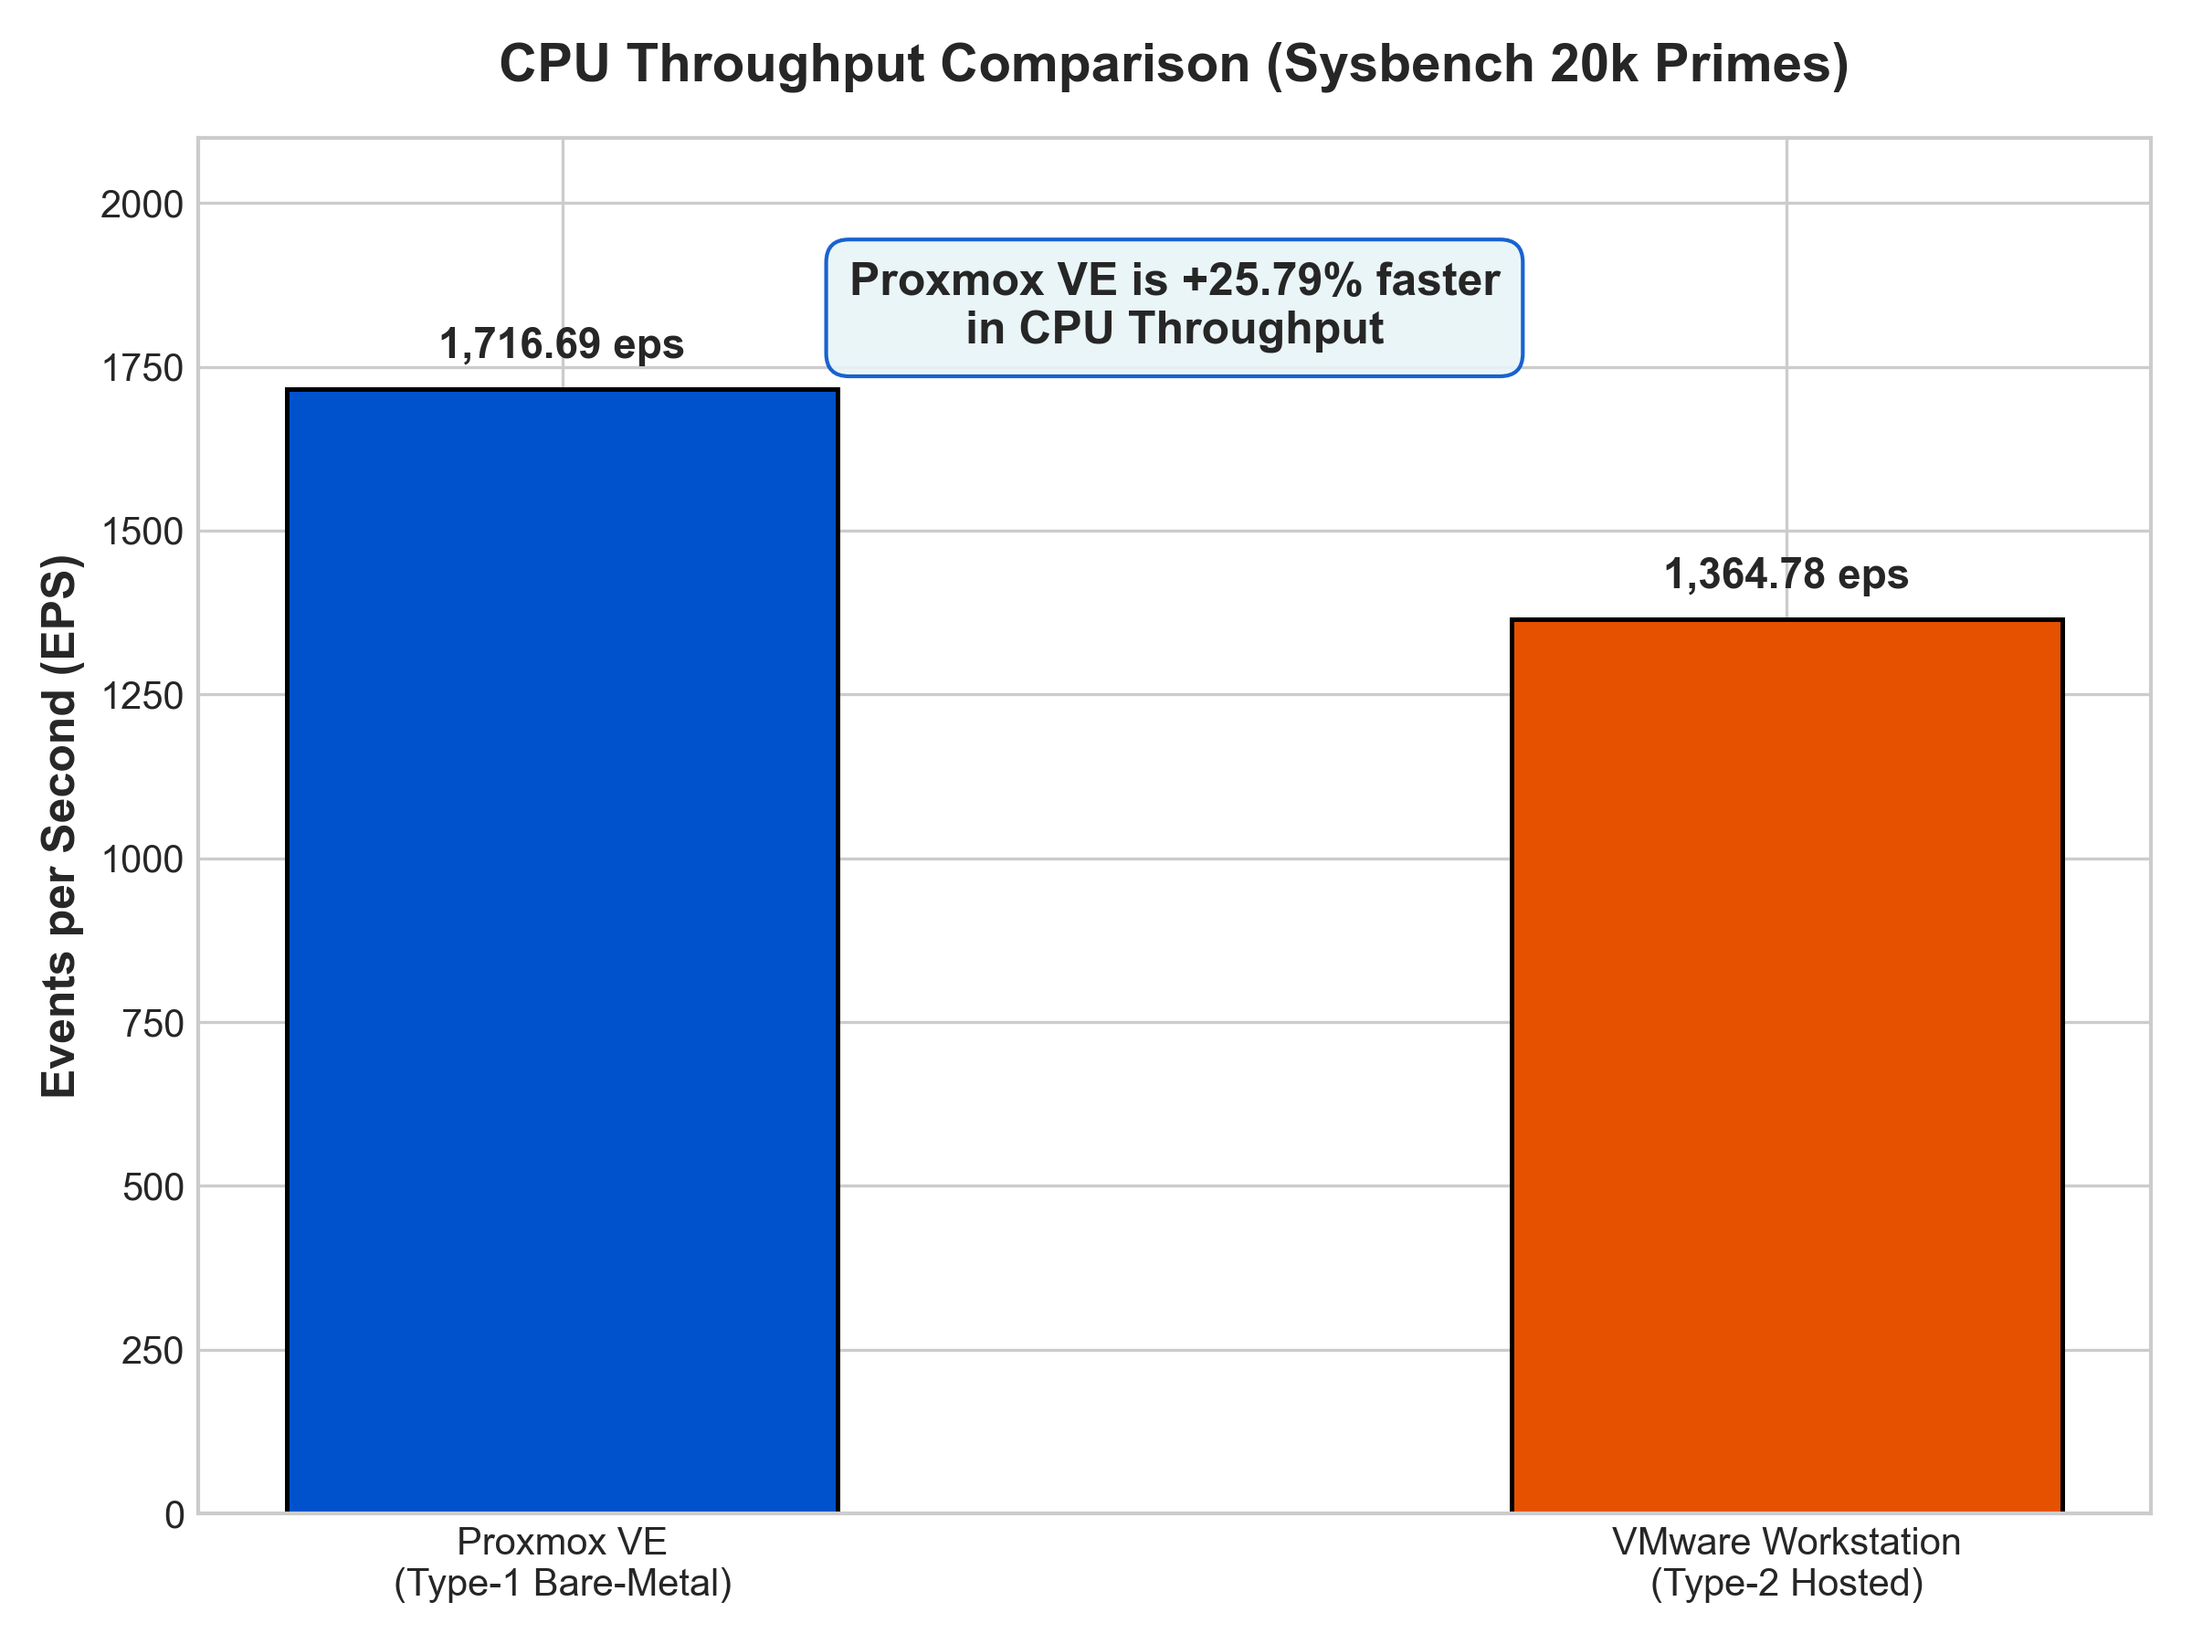
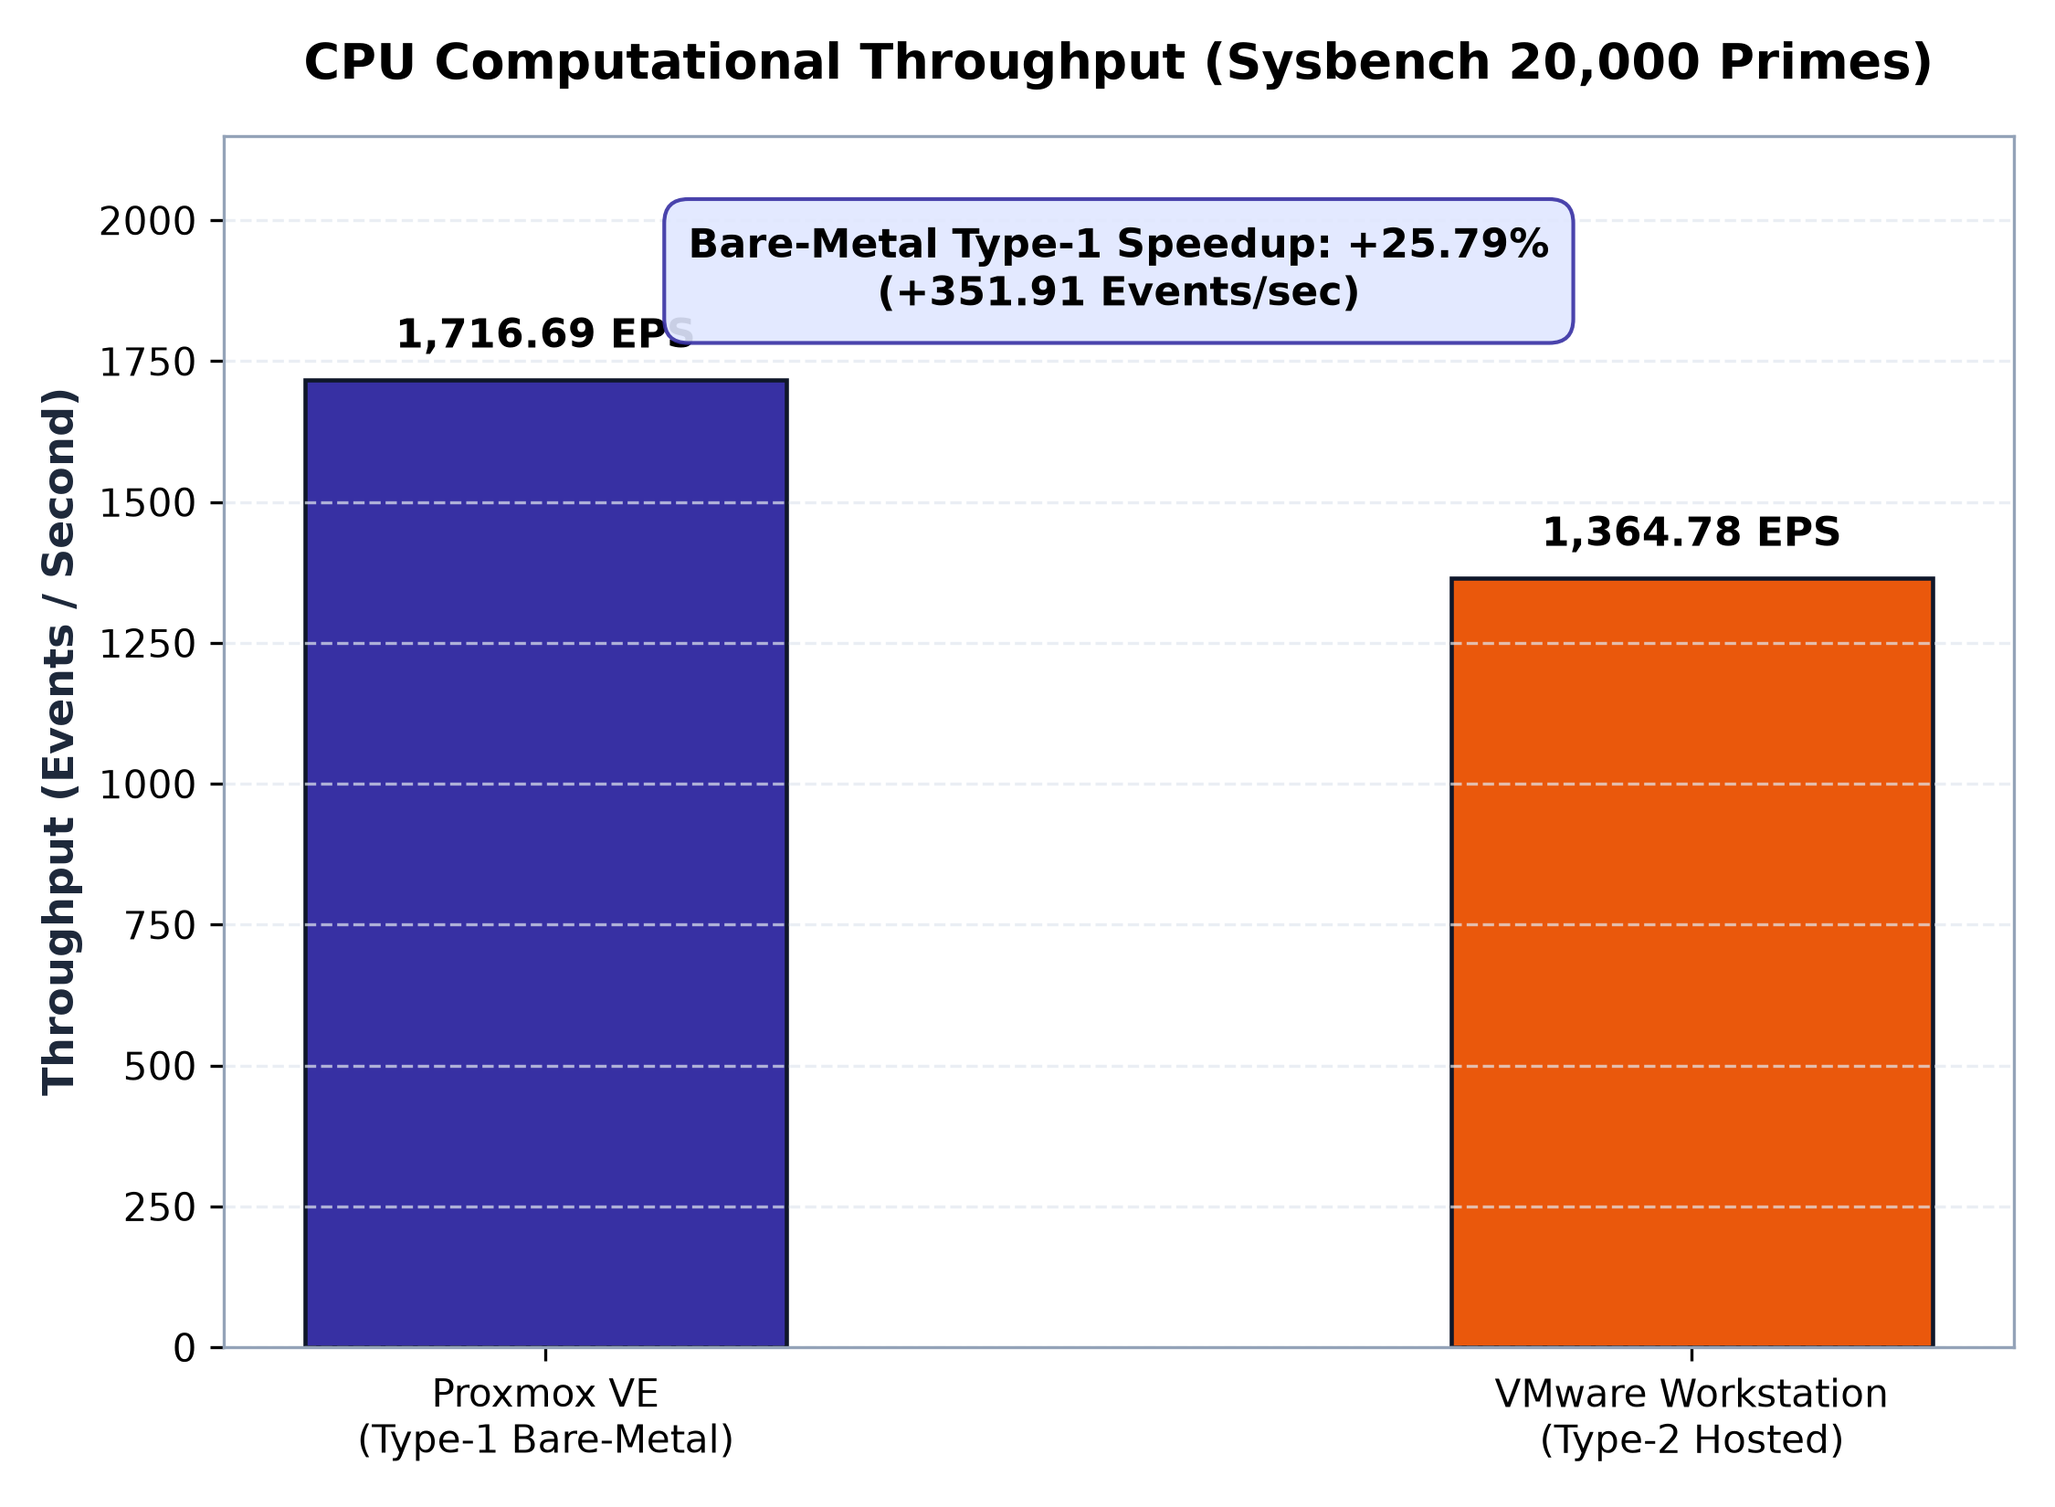
Regenerate performance plots with updated styles and fix Windows console encoding

diff --git a/Lab-01-Hypervisor-Benchmarking/script/generate_plots.py b/Lab-01-Hypervisor-Benchmarking/script/generate_plots.py
@@ -209,7 +209,7 @@ def main() -> None:
     plot_latency_metrics()
     plot_total_events()
     plot_dashboard()
-    print("[✔] Visualizations successfully generated in images/ directory.")
+    print("[OK] Visualizations successfully generated in images/ directory.")
 
 
 if __name__ == "__main__":
